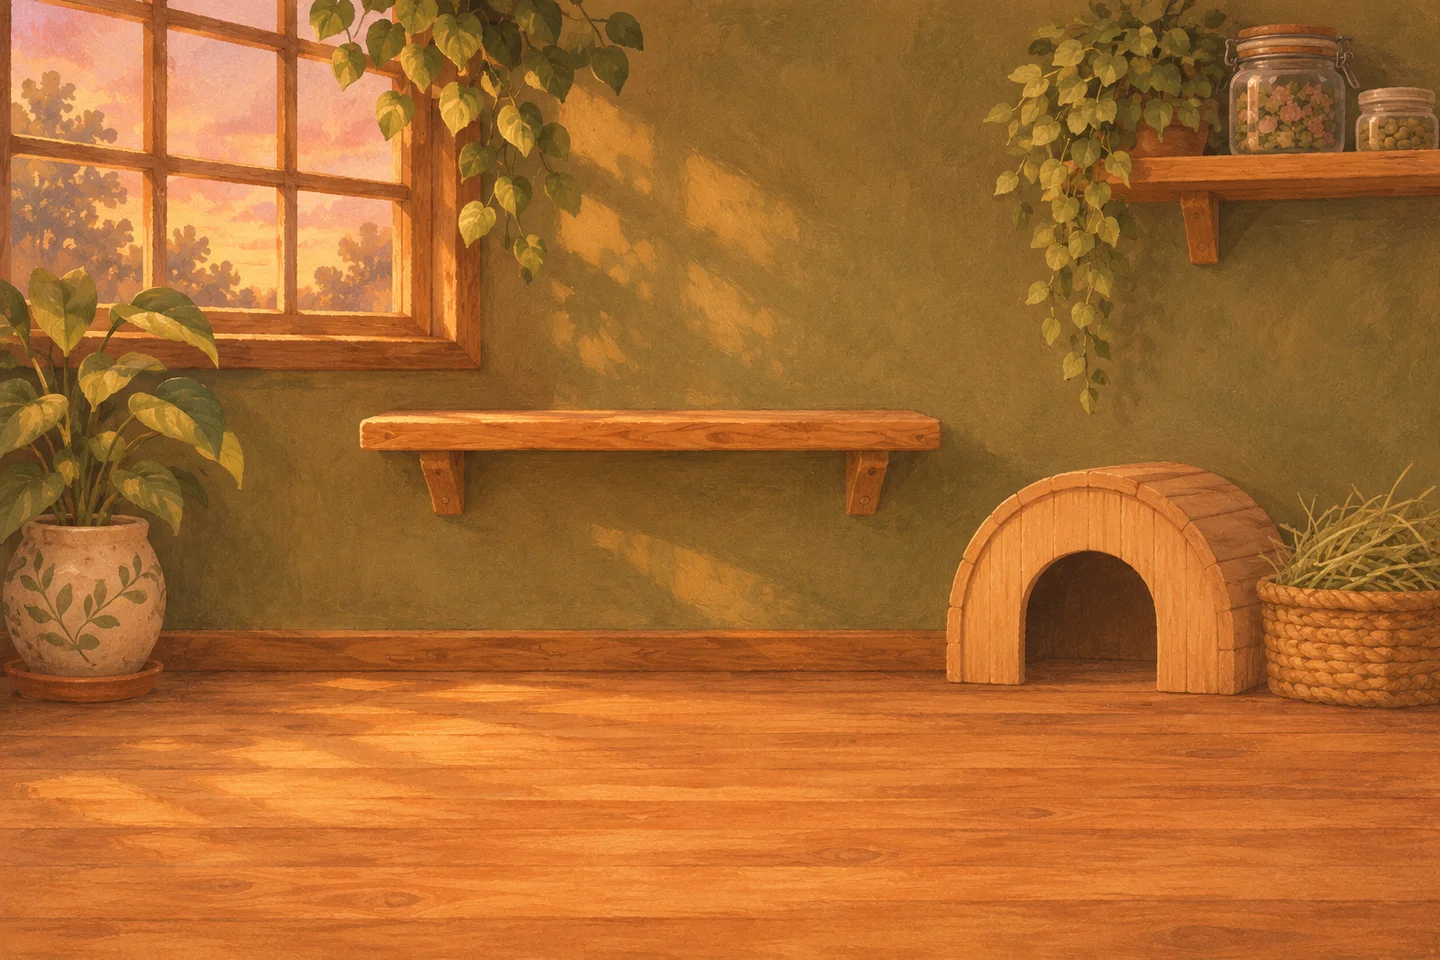
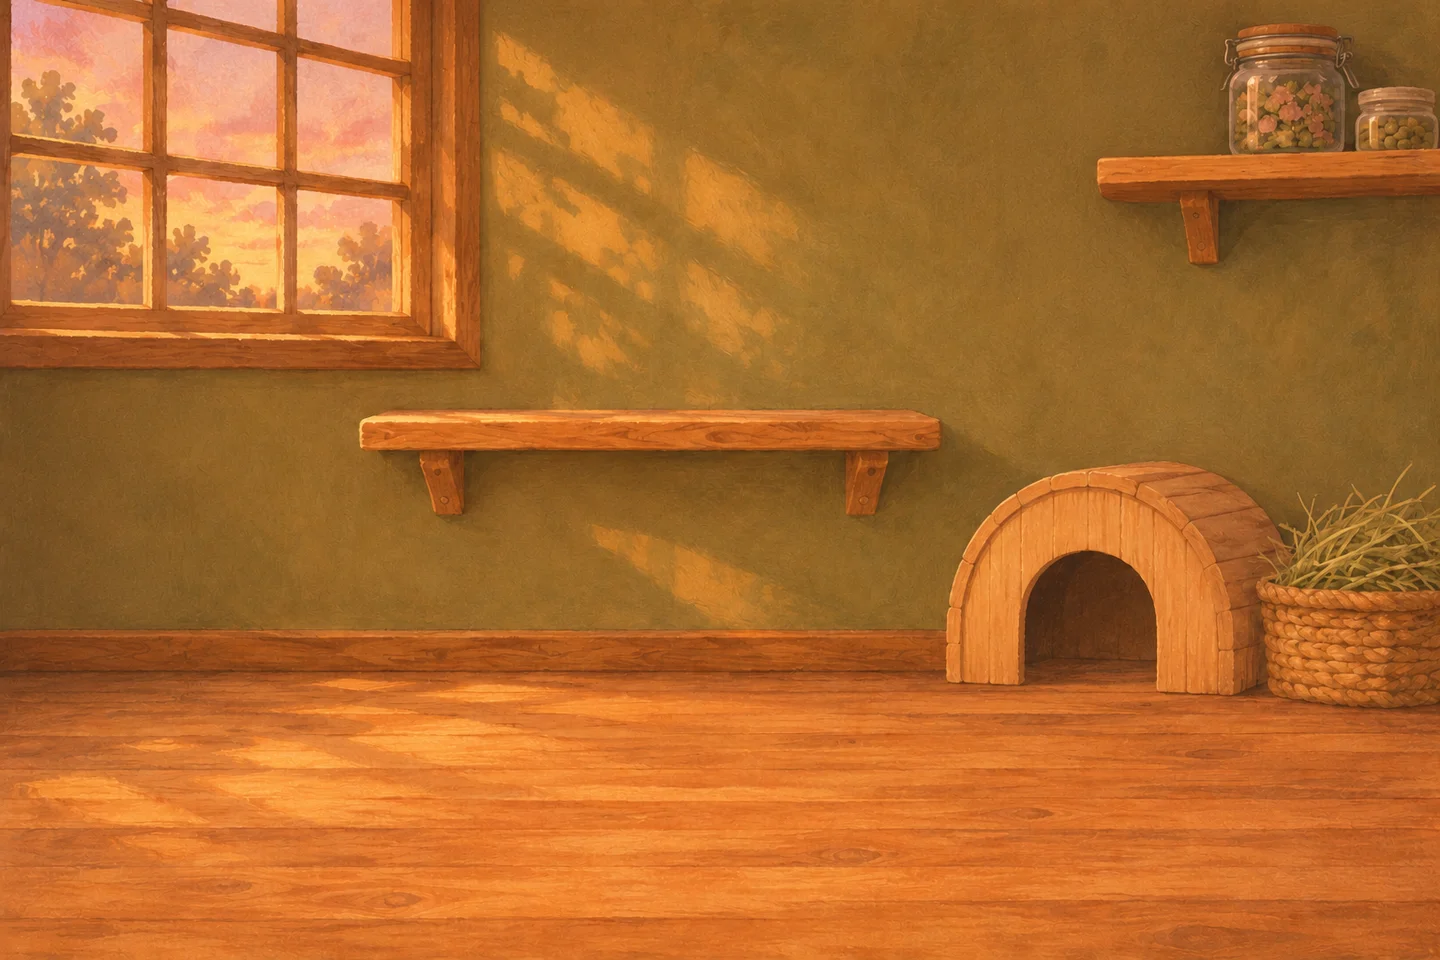
Show feeding and dust bath interactions in the room

Changed region(s): [[0.0, 0.2812, 0.1875, 0.7812], [0.6875, 0.0, 0.9375, 0.4375], [0.2188, 0.0, 0.4688, 0.375]]

diff --git a/style.css b/style.css
@@ -45,14 +45,110 @@ meter::-webkit-meter-optimum-value { background: #cbd198; }
 .pet[data-place="ledge"] { left: 49%; top: 44%; }
 .pet[data-place="nest"] { left: 76%; top: 74%; width: 19%; }
 .pet[data-place="near"] { left: 35%; top: 94%; }
-.pet[data-place="sand"] { left: 67%; top: 89%; }
+.pet[data-place="hay"] { left: 46%; top: 87%; }
+.pet[data-place="sand"] { left: 61%; top: 87%; width: 26%; }
 .pet[data-action="jump"] img { animation: jump .65s ease-in-out; }
 .pet[data-action="sleep"] img { animation-duration: 5s; transform: scaleY(.91); }
-.pet[data-action="groom"] img, .pet[data-action="feed"] img { animation: bob .55s ease-in-out infinite; }
+.pet[data-action="groom"] img { animation: bob .55s ease-in-out infinite; }
+.pet[data-action="feed"] img {
+  transform: translate(-3%, 8%) rotate(-16deg);
+  animation: chew .56s .65s ease-in-out infinite;
+}
 .pet[data-action="pet"] img { animation: lean 1.2s ease-in-out infinite; }
-.pet[data-action="bath"] img { animation: roll .8s ease-in-out infinite alternate; }
-.bath { display: none; position: absolute; left: 67%; top: 89%; width: 27%; height: 9%; transform: translate(-50%, -45%); border-radius: 50%; background: #d7c09a; border: .35rem solid #8a6448; box-shadow: 0 .2rem .5rem #33221d70; }
-.room:has(.pet[data-action="bath"]) .bath { display: block; }
+.pet[data-action="bath"] img { animation: enter-bath .65s ease-out, roll .72s .65s ease-in-out infinite alternate; }
+
+.hay, .bath, .bath-rim, .dust { position: absolute; pointer-events: none; }
+.hay {
+  z-index: 1;
+  left: 33%;
+  top: 87%;
+  width: 16%;
+  height: 5%;
+  transform: translate(-50%, -35%);
+  border-radius: 50%;
+  background: radial-gradient(ellipse at 48% 36%, #705336 49%, #ac7953 55%, #694b36 73%);
+  box-shadow: 0 .18rem .3rem #54371975;
+}
+.hay-stems {
+  position: absolute;
+  left: 10%;
+  bottom: 18%;
+  width: 80%;
+  height: 240%;
+  transform-origin: 60% 100%;
+  animation: tug .56s .65s ease-in-out infinite;
+}
+.hay-stems i {
+  position: absolute;
+  left: var(--base, 50%);
+  bottom: 0;
+  width: 3%;
+  height: var(--height, 100%);
+  border-radius: 60% 45% 10% 30%;
+  background: linear-gradient(90deg, #58633a, #c7ba73);
+  transform-origin: bottom;
+  transform: rotate(var(--angle));
+}
+.hay-stems i::before {
+  content: "";
+  position: absolute;
+  left: -65%;
+  top: 0;
+  width: 230%;
+  height: 28%;
+  border-radius: 65%;
+  background: repeating-linear-gradient(-25deg, #b29d5b 0 2px, #817b48 2px 3px);
+}
+.hay-stems i:nth-child(1) { --base: 42%; --height: 55%; --angle: -75deg; }
+.hay-stems i:nth-child(2) { --base: 51%; --height: 70%; --angle: -55deg; }
+.hay-stems i:nth-child(3) { --base: 39%; --height: 88%; --angle: -29deg; }
+.hay-stems i:nth-child(4) { --base: 48%; --height: 94%; --angle: 8deg; }
+.hay-stems i:nth-child(5) { --base: 54%; --height: 80%; --angle: 37deg; }
+.hay-stems i:nth-child(6) { --base: 58%; --height: 105%; --angle: 52deg; }
+.hay-stems i:nth-child(7) { --base: 66%; --height: 67%; --angle: 68deg; }
+
+.bath, .bath-rim {
+  left: 61%;
+  top: 87%;
+  width: 31%;
+  transform: translate(-50%, -50%);
+  border-radius: 50%;
+}
+.bath {
+  height: 13%;
+  background: radial-gradient(ellipse at 48% 62%, #e7cba2 25%, #b48c60 67%, #815042 70%);
+  border: clamp(2px, .55vw, 7px) solid #c38668;
+  box-shadow: 0 .4rem .55rem #54371975;
+}
+.bath-rim {
+  z-index: 1;
+  height: 13%;
+  clip-path: inset(50% 0 0);
+  border-bottom: clamp(5px, 1.7vw, 18px) solid #a36550;
+  box-shadow: inset 0 -.15rem #e5ad8a;
+}
+.dust { z-index: 2; left: 49%; top: 67%; width: 25%; height: 18%; }
+.dust i {
+  position: absolute;
+  bottom: 0;
+  left: 20%;
+  width: 25%;
+  aspect-ratio: 1;
+  border-radius: 50%;
+  background: radial-gradient(circle, #f6e3bfbe, #e8c99c00 70%);
+  opacity: 0;
+  animation: dust-puff 1.1s .65s ease-out infinite;
+}
+.dust i:nth-child(2) { left: 48%; animation-delay: .9s; }
+.dust i:nth-child(3) { left: 70%; animation-delay: 1.2s; }
+
+@keyframes chew { 50% { transform: translate(-6%, 9%) rotate(-20deg); } }
+@keyframes tug { 50% { transform: rotate(7deg) scaleY(.87); } }
+@keyframes enter-bath { 45% { translate: 0 -20%; } }
+@keyframes dust-puff {
+  25% { opacity: .75; }
+  100% { translate: 0 -90%; scale: 1.7; opacity: 0; }
+}
 @keyframes breathe { 50% { scale: 1 1.025; } }
 @keyframes jump { 45% { translate: 0 -26%; scale: .94 1.08; } }
 @keyframes bob { 50% { rotate: -5deg; } }
@@ -80,5 +176,5 @@ button:disabled { opacity: .55; }
 @media (max-width: 380px) { button span { display: none; } }
 @media (prefers-reduced-motion: reduce) {
   .pet { transition: none; }
-  .pet img, .pet[data-action] img { animation: none; }
+  .pet img, .pet[data-action] img, .hay-stems, .dust i { animation: none; }
 }

diff --git a/game.js b/game.js
@@ -2,6 +2,8 @@
 
 const saveKey = "little-chinchilla:v1";
 const pet = document.querySelector("#pet");
+const hay = document.querySelector(".hay");
+const bathProps = document.querySelectorAll(".bath, .bath-rim, .dust");
 const activity = document.querySelector("#activity");
 const meter = document.querySelector("#trust");
 const score = document.querySelector("#score");
@@ -28,6 +30,8 @@ function showActivity(action, place, label) {
   pet.dataset.action = action;
   pet.dataset.place = place;
   activity.textContent = label;
+  hay.hidden = action !== "feed";
+  bathProps.forEach((prop) => { prop.hidden = action !== "bath"; });
 }
 
 let timer;
@@ -51,7 +55,7 @@ function autonomousActivity() {
 }
 
 const care = {
-  feed: { action: ["feed", "floor", "吃提摩西草"], gain: 8, text: "小银捧起提摩西草，慢慢嚼了起来。" },
+  feed: { action: ["feed", "hay", "吃提摩西草"], gain: 8, text: "小银捧起提摩西草，慢慢嚼了起来。" },
   pet: { action: ["pet", "near", "接受轻抚"], gain: 10, text: "小银放松下来，轻轻向你的手靠近。" },
   bath: { action: ["bath", "sand", "正在沙浴"], gain: 6, text: "小银跳进浴盆，在细细的浴粉里打了个滚。" },
 };

diff --git a/index.html b/index.html
@@ -21,7 +21,14 @@
 
     <section class="room" aria-label="傍晚的龙猫小屋">
       <span class="activity" id="activity">观察四周</span>
-      <div class="bath" aria-hidden="true"></div>
+      <div class="hay" aria-hidden="true" hidden>
+        <div class="hay-stems">
+          <i></i><i></i><i></i><i></i><i></i><i></i><i></i>
+        </div>
+      </div>
+      <div class="bath" aria-hidden="true" hidden></div>
+      <div class="bath-rim" aria-hidden="true" hidden></div>
+      <div class="dust" aria-hidden="true" hidden><i></i><i></i><i></i></div>
       <div class="pet" id="pet" data-action="idle" data-place="floor" aria-hidden="true">
         <img src="./assets/chinchilla.webp" alt="" draggable="false">
       </div>
